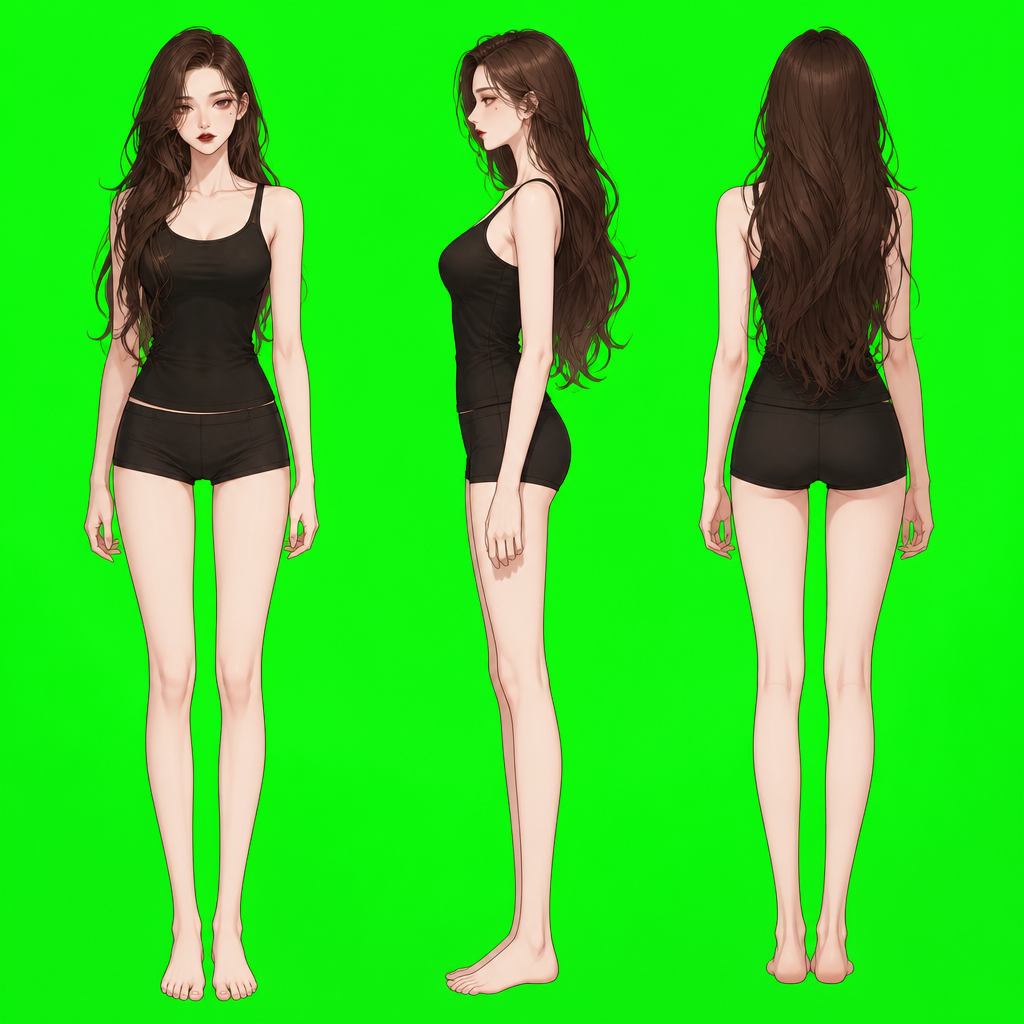
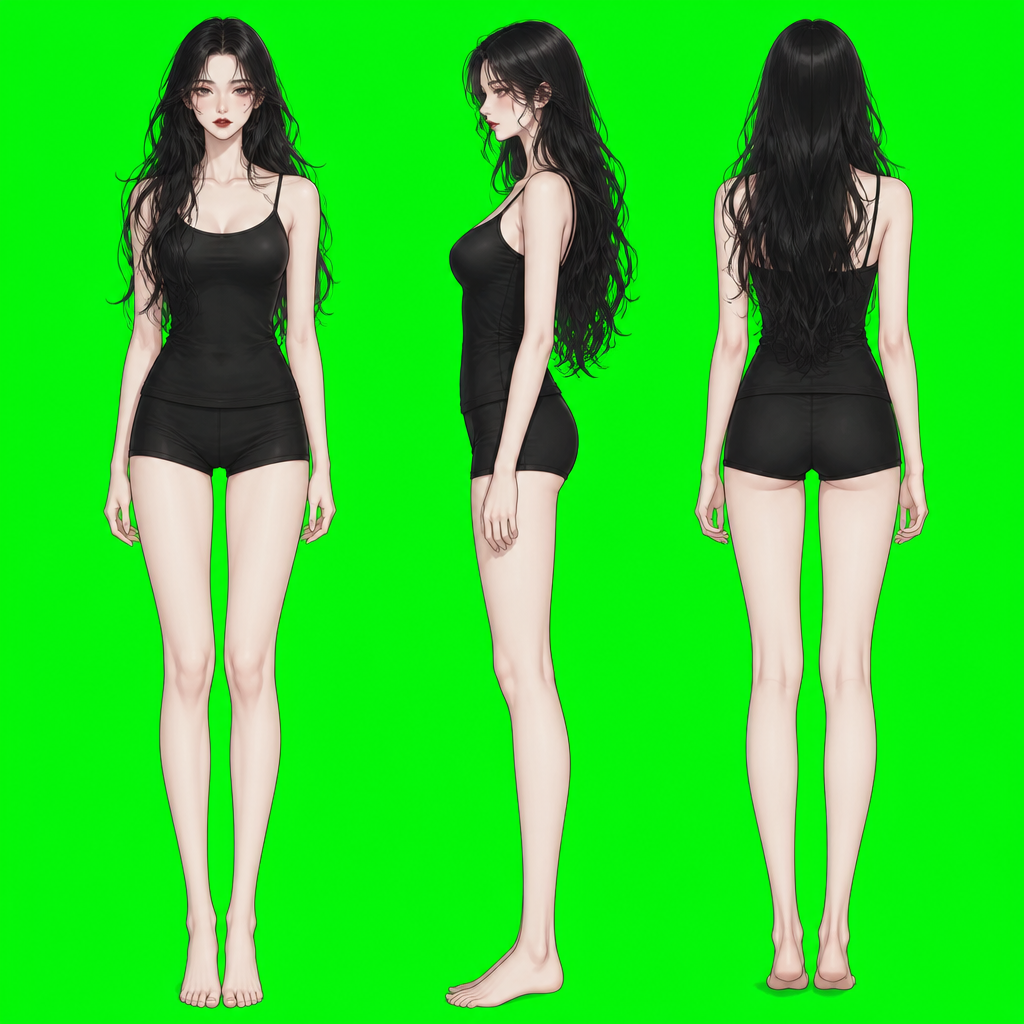
feat: SKILL 文档优化 + 角色美术资源更新
- char-concept-designer: AppearanceStyle 字段表合并并补「示例/说明」列；入参改为 char_id，所有 cypher 改从 char_id 起查询
- char-costume-designer: 字段表合并为统一 4 列（维度/属性/示例/说明），补回标签分隔说明

- 更新角色美术资源（林梦/沈暮雪/顾盈 设计图与提示词）
- 新增沈暮雪着装方案：电竞经理职业装、西餐厅正式约会装
- 调整 Schema/角色美术.md；新增 待处理事项.md（美术生产链遗留记录）

diff --git a/.claude/skills/char-concept-designer/SKILL.md b/.claude/skills/char-concept-designer/SKILL.md
@@ -5,6 +5,9 @@ description: |
   CostumeStyle 由 char-costume-designer skill 负责。
   在需要设计角色外貌方向（外貌/色彩/材质）、生成语言风格、
   或角色数据节点 status=0 需推进时使用。
+argument-hint: <char_id>
+arguments:
+  - char_id
 allowed-tools: Read, Bash, Write, Edit
 ---
 
@@ -12,14 +15,20 @@ allowed-tools: Read, Bash, Write, Edit
 
 创建并写入 AppearanceStyle（外貌）和 LanguageStyle（语言风格）图节点
 
+## 参数
+
+| 参数 | 说明 | 默认值 |
+|------|------|--------|
+| char_id | 角色节点 ID（snowflake Base62） | 必传 |
+
 ## 流程
 
 ### 1. 获取角色数据
 
-通过 neo4j-helper 按名称查找角色，获取完整信息：
+通过 neo4j-helper 按 char_id 查询角色，获取完整信息：
 
 ```cypher
-MATCH (ch:Character) WHERE ch.name = '角色名'
+MATCH (ch:Character {id: $char_id})
 OPTIONAL MATCH (ch)-[:has_appearance]->(app:AppearanceStyle)
 OPTIONAL MATCH (ch)-[:has_voice_style]->(voice:LanguageStyle)
 RETURN ch, app, voice;
@@ -52,7 +61,7 @@ python "${CLAUDE_SKILL_DIR}/../../scripts/snowflake_base62.py" -n 2 -q
 MERGE (app:AppearanceStyle {id: '<snowflake_id_1>'})
 SET app.name = '角色名外貌特征', app.status = 0
 WITH app
-MATCH (ch:Character) WHERE ch.name = '角色名'
+MATCH (ch:Character {id: $char_id})
 MERGE (ch)-[r:has_appearance]->(app)
 SET r.sync = true;
 ```
@@ -65,7 +74,7 @@ SET r.sync = true;
 MERGE (voice:LanguageStyle {id: '<snowflake_id_2>'})
 SET voice.name = '角色名语言风格', voice.status = 0
 WITH voice
-MATCH (ch:Character) WHERE ch.name = '角色名'
+MATCH (ch:Character {id: $char_id})
 MERGE (ch)-[r:has_voice_style]->(voice)
 SET r.sync = true;
 ```
@@ -76,41 +85,19 @@ SET r.sync = true;
 
 **AppearanceStyle**（status → 1）：
 
-自由文本字段：
-
-| 内容 | 属性 |
-|------|------|
-| 外貌描述（综合气质/身高） | appearance |
-| 视觉气质 | visual_tone |
-| 第一印象 | first_impression |
-
-**角色配色**（写入 Character 节点，非 AppearanceStyle）：
-
-| 内容 | 属性 |
-|------|------|
-| 配色逻辑（主辅点缀色 + 明暗逻辑） | Character.color_direction |
-
-通过 neo4j-helper 写入 Character 节点（步骤 1 已查询 `ch:Character`）：
-
-```cypher
-MATCH (ch:Character) WHERE ch.name = '角色名'
-SET ch.color_direction = '<配色逻辑自由文本>';
-```
-
-设计元素标签字段（值=分号 `;` 分隔标签，参考 `55_manage/标签库.json` 受控词表）：
-
-| 维度 | 属性 | 候选 |
-|------|------|------|
-| 形状语言 | shape_language | 三角型/方型/倒三角/细长型/圆形/不对称 |
-| 年龄感 | age_impression | 少女/青年/成熟/御姐/正太/少年 |
-| 体态 | body_type | 曼妙/修长/健壮/娇小/丰腴/少年感/匀称 |
-| 肤色 | skin_tone | 象牙白/瓷白/苍白/蜜色/健康粉/小麦/古铜 |
-| 头发 | hair | 合成组合：发色+发型+发长，如 `深棕色大波浪长发`（dashboard 选子维度自动合成） |
-| 眼睛 | eye | 合成组合：瞳色+眼型，如 `琥珀色上挑眼` |
-| 唇形 | lip_shape | 薄唇/饱满/厚唇/微笑唇 |
-| 特殊标记 | marks | 无/疤痕/纹身/胎记/泪痣（可多选） |
-
-标签从角色设定提取并合成（"深棕色大波浪长发"→ `hair=深棕色大波浪长发`；"琥珀色上挑眼"→ `eye=琥珀色上挑眼`）。无明确值的维度可留空。
+| 维度 | 属性 | 示例 | 说明 |
+|------|------|------|------|
+| 外貌描述 | appearance | `170cm，清冷疏离的气质` | 自由文本（气质 + 身高） |
+| 视觉气质 | visual_tone | `冷峻、神秘` | 自由文本 |
+| 第一印象 | first_impression | `不易接近的高岭之花` | 自由文本 |
+| 形状语言 | shape_language | 三角型 / 方型 / 倒三角 / 细长型 / 圆形 / 不对称 | 单选 |
+| 年龄感 | age_impression | 少女 / 青年 / 成熟 / 御姐 / 正太 / 少年 | 单选 |
+| 体态 | body_type | 曼妙 / 修长 / 健壮 / 娇小 / 丰腴 / 少年感 / 匀称 | 单选 |
+| 肤色 | skin_tone | 象牙白 / 瓷白 / 苍白 / 蜜色 / 健康粉 / 小麦 / 古铜 | 单选 |
+| 头发 | hair | `深棕色大波浪长发` | 自由文本，需明确颜色、款式、长短 |
+| 眼睛 | eye | `琥珀色上挑眼` | 自由文本，需明确颜色、眼型 |
+| 唇形 | lip_shape | 薄唇 / 饱满 / 厚唇 / 微笑唇 | 单选 |
+| 特殊标记 | marks | 无 / 疤痕 / 纹身 / 胎记 / 泪痣 | 可多选 |
 
 **LanguageStyle**（怪物跳过，status → 1）：
 

diff --git a/.claude/skills/char-costume-designer/SKILL.md b/.claude/skills/char-costume-designer/SKILL.md
@@ -100,29 +100,25 @@ MERGE (e)-[r:wears]->(cos) SET r.sync = false;
 
 #### 4.3 生成并填写内容
 
-基于事件上下文和角色信息，填写以下字段。
+基于事件上下文和角色信息，填写以下字段（标签字段值用分号 `;` 分隔，参考 `55_manage/标签库.json`）：
 
-**自由文本字段**：
-
-| 字段 | 内容来源 | 示例 |
-|------|---------|------|
-| name | 角色名 + 着装场景描述 | `沈暮雪-休闲约会着装` |
-
-**设计元素标签字段**（值=分号 `;` 分隔标签，参考 `55_manage/标签库.json`）：
-
-| 维度 | 属性 | 候选 |
-|------|------|------|
-| 着装风格 | outfit_style | 休闲/正式/运动/性感/可爱/学院/街头/古风/慵懒（可多选） |
-| 服装 | garment | 合成组合：材质+颜色+服装类型（配对型，每组≤1自动合成），如 `棉白衬衫`；多件手动添加多个 `棉白衬衫;蕾丝黑内衣` |
-| 鞋类 | footwear | 运动鞋/皮鞋/靴/帆布鞋/凉鞋/高跟鞋/赤足 |
-| 配饰类型 | accessory_type | 耳饰/项链/手表/眼镜/戒指/发饰/手持物（可多选） |
+| 维度 | 属性 | 示例 | 说明 |
+|------|------|------|------|
+| 名称 | name | `沈暮雪-休闲约会着装` | 自由文本（角色名 + 着装场景描述） |
+| 着装风格 | outfit_style | 休闲 / 正式 / 运动 / 性感 / 可爱 / 学院 / 街头 / 古风 / 慵懒 | 可多选 |
+| 服装 | garment | `棉白衬衫` | `棉质白衬衫;蕾丝女式三角内裤;黑色丝袜` |
+| 鞋类 | footwear | 运动鞋 / 皮鞋 / 靴 / 帆布鞋 / 凉鞋 / 高跟鞋 / 赤足 | 单选 |
+| 配饰类型 | accessory_type | 耳饰 / 项链 / 手表 / 眼镜 / 戒指 / 发饰 / 手持物 | 可多选 |
 
 **内容生成规则**：
-- 参考 `00_init/世界设定.md`、`00_init/人物设定.md`、角色 tags
-- 参考 Character 的 `color_direction` 保持配色体系一致
-- 服装款式/颜色统一用 `garment` 标签（材质+颜色+类型）表达，是服装信息的**唯一数据源**；标签未覆盖的款式细节（领型、滚边、层次、剪裁、质感氛围）用标签库的**自定义输入**补充到标签值，不另设自由文本字段
-- 标志性道具的**类型**放入 `accessory_type` 标签，具体样式用自定义标签值补充
-- 着装不再单独设计体态——IllusDesign 复用 DesignSheet 的静态站姿（角色默认体态已在外貌层）
+1. 可以参考以下内容：
+   - `00_init/世界设定.md`，确保服装风格不违背世界观
+   - 角色配色参考 Character 的 `color_direction` ，**但是不强求一致**
+2. 服装款式/颜色统一记录在 `garment` 属性，多件服饰用 `;` 分隔
+   每件服饰包含以下内容：
+   - 必选：材质+颜色+类型
+   - 可选：领型、滚边、层次、剪裁、质感氛围等。可以适当补充但是不宜太多
+3. 配饰内容放入 `accessory_type` ，具体样式用自定义标签值补充
 
 ### 5. 报告结果
 

diff --git a/待处理事项.md b/待处理事项.md
@@ -1,0 +1,43 @@
+# 待处理事项
+
+> 记录美术生产链中需要人工跟进、审批或重做的遗留项。
+
+---
+
+## ⚠ 沈暮雪 — IllusDesign 与底图 DesignSheet 未级联，重做需手工同步
+
+- **记录日期**：2026-06-15
+- **状态**：待处理
+- **更新**：2026-06-15 新增第二条受影响 IllusDesign（西餐厅正式约会装 `O0Du9LWYz2`），现共有 2 条下游 IllusDesign 受同一 DesignSheet 重做风险影响
+
+### 背景
+
+沈暮雪（角色 ID：`NvCkQmFPFu`）的外貌被手动修改后，重做了 DesignSheet 并以其为底图，图生图生成了「电竞经理职业装」的 IllusDesign。但当时 **DesignSheet 尚未审批通过**（approve=`pending`），仍按此底图推进了 IllusDesign。
+
+### 涉及节点
+
+| 节点 | ID | 当前状态 |
+|------|----|----------|
+| DesignSheet（设计图 / 图生图底图） | `NyL21qu5Ee` | status=2, **approve=pending（未审批）** |
+| IllusDesign（电竞经理职业装立绘） | `O0BFwtiWA4` | status=2, approve=pending |
+| IllusDesign（西餐厅正式约会装立绘） | `O0Du9LWYz2` | status=2, approve=pending |
+| CostumeStyle（电竞经理职业装） | `NyKwVuVWM4` | approve=approved（已审批） |
+| CostumeStyle（西餐厅正式约会装） | `NyKwVuVWM6` | approve=approved（已审批） |
+
+### 风险
+
+`DesignSheet —[:produces]→ IllusDesign` 这条边 **sync=false**（不自动级联）。
+**若后续 DesignSheet 在 dashboard 被驳回并重做**（例如再次调整外貌），下游这些 IllusDesign **不会自动跟随更新**，会出现：
+
+- 立绘仍基于旧外貌底图，与新 DesignSheet 对不上
+- 需要手动重新生成 IllusDesign，否则数据/画面不一致
+
+> 编排层判定：图生图只读底图文件、不检查 DesignSheet.approve，所以当时未阻塞生成——这是隐患来源。
+
+### 处理建议（稍后跟进）
+
+1. 先去 dashboard 审批 DesignSheet（`NyL21qu5Ee`）：
+   - 若 **通过** → 隐患消除，当前 IllusDesign 可继续用，照常推进后续。
+   - 若 **驳回重做** → 重做 DesignSheet 后，必须手动重生成全部下游 IllusDesign（`O0BFwtiWA4`、`O0Du9LWYz2`）。
+2. 若决定保留 sync=false：把「DesignSheet 重做后需手工重生成下游 IllusDesign」纳入流程习惯。
+3. 若想根治：考虑在 skill 层为 `produces` 边增加 sync 级联或审批前置校验（产品决策，非必做）。

diff --git a/06_角色美术/林梦/prompt.md b/06_角色美术/林梦/prompt.md
@@ -13,9 +13,9 @@
 ## 角色设定
 <!-- 数据来源：AppearanceStyle 节点（appearance + tags）+ Character 节点（color_direction） -->
 
-1. **体型**：身高约163cm，娇小匀称的少女体型，圆形形状语言主导轮廓，圆润柔和的肩线，四肢纤细，腰线清晰，整体散发被宠溺长大的精致感与少女的稚气活力，静态站姿自然直立
-2. **面部**：圆润鹅蛋脸，深棕色下垂圆眼，眼型圆润下垂呈现天真无辜感，眉型柔和，鼻型小巧精致，饱满的唇形呈现嘟唇感，瓷白肤色，默认表情带着软糯甜腻的黏人气质，眼神黏人带着天真
-3. **发型**：栗棕色柔顺长直发，发长及腰，发质光泽顺滑自然披散，碎发自然垂落修饰脸型
-4. **贴身基础衣物**：穿着深色基础衣物（黑色贴身背心+深色短裤），与瓷白肤色形成高对比，不涉及服装设计细节
-5. **外貌配色**：主色调为奶白色与樱花粉的贵气甜美组合，辅以薰衣草紫的娇贵少女感，点缀蜜桃金的富家千金精致感。发色为栗棕色，瞳色为深棕色，肤色瓷白，整体高明度低饱和，营造软糯无害的甜系氛围，紫色点缀暗示其任性与被宠溺的底色
+1. **体型**：身高约168cm，少女体型，骨架略大，圆形形状语言主导轮廓，体型匀称，肩线圆润柔和，四肢纤实，腰线清晰，整体呈现精致活力感，静态站姿自然直立，双手自然垂于身侧
+2. **面部**：圆润鹅蛋脸，金色杏眼，眼型圆润略呈杏形，眼神明亮天真，眉型柔和，鼻型小巧精致，唇形饱满，瓷白肤色，默认表情呈现甜美开朗的气质
+3. **发型**：金色直发，中发长度及肩略过，发质光泽顺滑自然披散，碎发自然垂落修饰脸型
+4. **基础衣物**：穿着深色简约基础衣物（深灰色短袖上衣+深色长裤），与瓷白肤色形成适度对比，不涉及服装设计细节
+5. **外貌配色**：主色调为奶白色与樱花粉的贵气甜美组合，辅以薰衣草紫的少女感，点缀蜜桃金的精致感。发色为金色，瞳色为金色，肤色瓷白，整体高明度低饱和，营造甜美柔和的氛围
 6. **特殊标记**：无明显疤痕、纹身或胎记

diff --git a/06_角色美术/沈暮雪/prompt.md b/06_角色美术/沈暮雪/prompt.md
@@ -14,10 +14,10 @@
 <!-- 数据来源：AppearanceStyle 节点 + Character 节点 -->
 
 1. **体型**：身高约 172cm，曼妙匀称的高挑身材，肩线清晰，腰线收紧，四肢修长；轮廓呈细长型，整体气质慵懒妩媚却自带冷意；静态站姿自然挺直，重心略偏后，透出掌控全局的从容感
-2. **面部**：精致微长的脸型，下颌线清晰利落，眉峰略挑显出冷感；眼尾微微下垂带着疏离感，琥珀色上挑眼，瞳色为温暖琥珀；微笑唇，唇线清晰；左眼下方有一颗泪痣作为面部标志；默认表情是冷淡审视的神情，不怒自威
-3. **发型**：深棕色微卷长发，发长垂至腰际，自然披散时呈现小资情调的随意感，发丝柔软有光泽，发尾自然卷曲；碎发自然散落在脸侧与肩头
+2. **面部**：精致微长的脸型，下颌线清晰利落，眉峰略挑显出冷感；眼尾微微下垂带着疏离感，黑色上挑眼，瞳色为纯黑；薄唇，唇线清晰；左眼下方有一颗泪痣作为面部标志；默认表情是冷淡审视的神情，不怒自威
+3. **发型**：黑色微卷长发，发长垂至腰际，自然披散时呈现小资情调的随意感，发丝柔软有光泽，发尾自然卷曲；碎发自然散落在脸侧与肩头
 4. **贴身基础衣物**：穿着黑色贴身背心与深色短裤，与象牙白肤色形成高对比，仅作为基础底装，不涉及任何服装设计细节
-5. **外貌配色**：发色为深棕色呼应整体配色，瞳色为温暖琥珀色，肤色为冷调象牙白；唇部点出深酒红色作为视觉焦点，泪痣强化面部精致感；外貌整体配色逻辑以大面积低饱和的深棕发色为视觉锚点，象牙白肤色形成画面高光，深酒红唇色作为锐利点缀
+5. **外貌配色**：发色为纯黑呼应整体配色，瞳色为纯黑，肤色为冷调象牙白；唇部点出深酒红色作为视觉焦点，泪痣强化面部精致感；外貌整体配色逻辑以大面积低饱和的纯黑发色为视觉锚点，象牙白肤色形成画面高光，深酒红唇色作为锐利点缀
 6. **特殊标记**：左眼下方泪痣，是面部标志性细节
 
 ## 三视图规则

diff --git a/06_角色美术/沈暮雪/沈暮雪-西餐厅正式约会装/prompt.md b/06_角色美术/沈暮雪/沈暮雪-西餐厅正式约会装/prompt.md
@@ -1,0 +1,26 @@
+# 沈暮雪 着装适配提示词
+
+## 角色信息
+- **角色ID**：NvCkQmFPFu
+- **着装风格ID**：NyKwVuVWM6
+- **参考设计图**：06_角色美术/沈暮雪/设计图.png
+
+## 着装提示词
+
+1. **开头声明**：角色立绘设计图，#00FF00 纯绿色背景，全身三视图（正面、侧面、背面）
+
+2. **着装款式**：身穿一袭深酒红色修身连衣裙，收腰剪裁贴合腰臀曲线，裙长至膝，勾勒出曼妙的身姿线条；肩上披着一件黑色真丝披肩，自然垂落包裹双肩与手臂，前襟微敞，露出内里深酒红色连衣裙的肩带与领口。
+
+3. **材质质感**：连衣裙为丝绒面料，表面带有细腻的绒毛光泽，随光线流转泛出深沉柔和的酒红反光，质感厚重华贵；披肩为真丝面料，轻盈顺滑，带有柔和的丝绸光泽与垂坠感，边缘自然垂落。
+
+4. **配色**：以深酒红色为主色（连衣裙主体），黑色为辅色（真丝披肩），形成浓郁沉稳的红黑撞色对比；深酒红的丝绒光泽与黑色真丝的哑光质感相互映衬，整体配色低饱和而高贵，凸显正式性感的约会氛围。
+
+5. **鞋袜**：脚踩高跟鞋，尖头细跟款式，拉长腿部线条，提升身姿挺拔与优雅感。
+
+6. **配饰**：耳际佩戴精致的耳饰，点缀面庞轮廓；颈间佩戴一条项链，点缀锁骨与胸前；手指上佩戴一枚戒指，细节考究，烘托整体矜贵的气质。
+
+7. **适配补充**：西餐厅正式约会装三视图，姿态优雅矜贵，体现正式性感的约会气质；三视图保持正面、侧面、背面视角一致。
+
+## 风格
+
+Japanese Commercial Illustration / Semi-realistic Anime，日系商业角色插画半写实风格，7.5头身，轻小说封面风。细线稿，外轮廓略粗、内部结构线较细，线条圆润光滑。半厚涂上色，软阴影柔和渐变，明暗低对比，单主光源，高光中等偏弱。暖色调，偏暖色温，中低饱和，色彩低对比。

diff --git a/06_角色美术/顾盈/顾盈-酒店晨离着装/prompt.md b/06_角色美术/顾盈/顾盈-酒店晨离着装/prompt.md
@@ -7,15 +7,15 @@
 
 ## 着装提示词
 
-1. **开头声明**：角色立绘设计图，#00FF00 纯绿色背景，全身三视图（正面、侧面、背面），三个视角并排展示，同一角色三视角保持外观一致
+1. **开头声明**：顾盈穿着「酒店晨离着装」的立绘设计图，#00FF00 纯绿色背景，全身三视图（正面、侧面、背面），三个视角并排展示，同一角色三视角保持外观一致
 
-2. **着装款式**：身穿一件白色长款衬衫，剪裁宽松，前襟自然垂落，衣身宽大松垮地罩在身上，下摆长至大腿中段，呈现日常家居的宽松舒适穿搭；下身为黑色棉质短裤。整体为休闲随意的晨间居家着装风格
+2. **着装款式**：上身一件男士白色衬衫，以 oversized 宽松方式穿着，前襟自然垂落，衣身宽大松垮地罩在身上，慵懒地披挂在肩上，下摆长至大腿中段；下身为黑色棉质内裤。整体呈现慵懒的酒店晨离氛围
 
-3. **材质质感**：衬衫为轻薄棉质面料，质地柔软，带有自然的褶皱垂坠感，袖口与下摆有细腻的缝线细节
+3. **材质质感**：衬衫为轻薄棉质面料，质地柔软，带有自然的褶皱垂坠感，袖口与下摆有细腻的缝线细节；内裤为棉质面料，柔软贴合
 
-4. **配色**：主体为白色的长款衬衫，与黑色棉质短裤形成黑白对比；宽松的白衬衫与瓷白肌肤相协调，整体以白色为大面积主调，黑色作为下装对比
+4. **配色**：衬衫为纯白色，内裤为黑色，黑白两色形成鲜明对比，整体以白色为大面积主调，黑色作为下装对比
 
-5. **鞋袜**：赤足，不穿鞋袜，呈现居家自然状态
+5. **鞋袜**：赤足，不穿鞋袜
 
 6. **配饰**：佩戴耳饰与项链，金属光泽的饰品点缀在锁骨与耳畔，与衬衫领口相映，增添精致装饰感
 

diff --git a/06_角色美术/沈暮雪/沈暮雪-电竞经理职业装/prompt.md b/06_角色美术/沈暮雪/沈暮雪-电竞经理职业装/prompt.md
@@ -1,0 +1,26 @@
+# 沈暮雪 着装适配提示词
+
+## 角色信息
+- **角色ID**：NvCkQmFPFu
+- **着装风格ID**：NyKwVuVWM4
+- **参考设计图**：06_角色美术/沈暮雪/设计图.png
+
+## 着装提示词
+
+1. **开头声明**：角色立绘设计图，#00FF00 纯绿色背景，全身三视图（正面、侧面、背面）
+
+2. **着装款式**：身穿黑色包臀裙搭配白衬衫，外罩一件黑色西装外套，下身着薄黑丝袜，整体为收腰剪裁的职业正装套裙。衬衫前襟扣合，领口微敞，西装外套敞开露出内衬白衬衫，包臀裙及膝，裙身贴合腰臀曲线。
+
+3. **材质质感**：西装外套为挺括的精纺毛料，哑光质感，肩线利落；白衬衫为细腻棉质面料，略带柔和的光泽；包臀裙面料平整服帖，略带弹性；薄黑丝袜为半透明丝质，贴合腿部。
+
+4. **配色**：以黑色为主色（西装外套与包臀裙），白色为辅色（内搭衬衫），形成经典的黑白职业装对比；薄黑丝袜延续黑色调，整体配色低饱和、干练沉稳。
+
+5. **鞋袜**：脚踩黑色高跟鞋，尖头款式，提升身姿挺拔感。
+
+6. **配饰**：颈间佩戴一条精致的项链，点缀锁骨；佩戴一副眼镜，强化职场知性气质。
+
+7. **适配补充**：电竞经理职业装三视图，姿态干练挺拔，体现职场的专业感与正式感；三视图保持正面、侧面、背面视角一致。
+
+## 风格
+
+Japanese Commercial Illustration / Semi-realistic Anime，日系商业角色插画半写实风格，7.5头身，轻小说封面风。细线稿，外轮廓略粗、内部结构线较细，线条圆润光滑。半厚涂上色，软阴影柔和渐变，明暗低对比，单主光源，高光中等偏弱。暖色调，偏暖色温，中低饱和，色彩低对比。

diff --git a/00_init/Schema/角色美术.md b/00_init/Schema/角色美术.md
@@ -42,7 +42,6 @@
 | appearance | 外貌描述 | string | 否 | 自由文本：综合气质、身高、整体观感（`约168cm, 曼妙匀称, 慵懒妩媚`） |
 | visual_tone | 视觉气质 | string | 否 | 自由文本：氛围/气质一句话 |
 | first_impression | 第一印象 | string | 否 | 自由文本 |
-| _标签字段（见标签库.json，值=分号分隔标签）_ | | | | |
 | shape_language | 形状语言 | string | 否 | 标签：三角型/方型/倒三角/细长型/圆形/不对称 |
 | age_impression | 年龄感 | string | 否 | 标签 |
 | body_type | 体态 | string | 否 | 标签 |
@@ -65,7 +64,6 @@
 |------|------|------|------|------|
 | id | 编号 | string | 是 | snowflake Base62 |
 | name | 名称 | string | 是 | `着装名称`：简短描述，例如工作服 |
-| _标签字段（见标签库.json，值=分号分隔标签）_ | | | | |
 | outfit_style | 着装风格 | string | 否 | 标签（可多选）：休闲/正式/性感/古风... |
 | garment | 服装 | string | 否 | 合成组合（材质+服装类型）：`棉衬衫`（多件分号：`棉衬衫;蕾丝内衣`） |
 | footwear | 鞋类 | string | 否 | 标签 |
@@ -127,7 +125,6 @@
 | id | 编号 | string | 是 | snowflake Base62 |
 | prompt_path | 提示词文件 | string | 否 | 派生 prompt 文件相对路径 |
 | image_path | 图片路径 | string | 否 | `./06_角色美术/<char_name>/<CostumeStyle.name>/<variant_label>立绘.png` |
-| _标签字段（表情/动作，见标签库.json）_ | | | | |
 | variant_label | 变体 | string | 是 | 标签：默认/微笑/愤怒/悲伤/惊讶/思考/坚定/恐惧/战斗/负伤 |
 | eye | 眼部 | string | 否 | 标签 |
 | brow | 眉毛 | string | 否 | 标签 |
